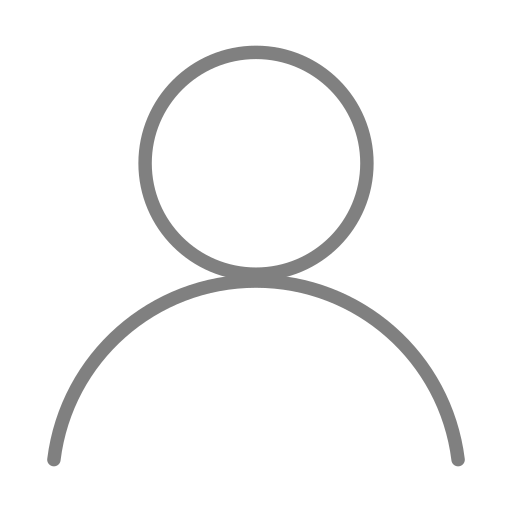
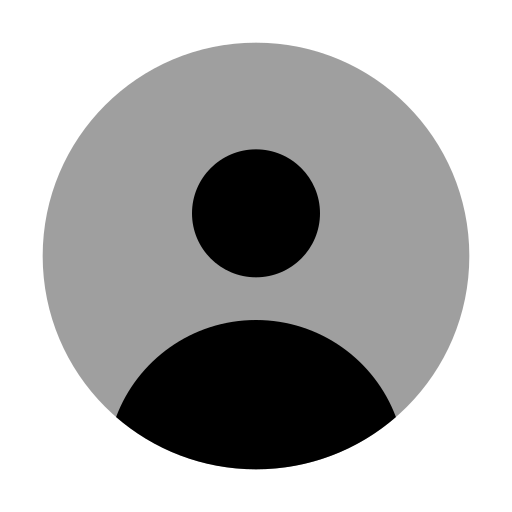
perbaruan tugas.php sama profile

diff --git a/codes V3 - Biyan!!/tugas.css b/codes V3 - Biyan!!/tugas.css
@@ -137,6 +137,48 @@ nav ul {
     background-color: #45a049;
 }
 
+.upload-link {
+    display: inline-block;
+    color: #007bff;
+    text-decoration: none;
+    font-weight: bold;
+    margin-right: 10px;
+    font-size: 14px;
+    padding: 5px 10px;
+    border: 1px solid #007bff;
+    border-radius: 5px;
+    transition: all 0.3s ease;
+}
+
+.upload-link:hover {
+    background-color: #007bff;
+    color: white;
+    text-decoration: none;
+}
+
+.delete-button {
+    background-color: #e74c3c;
+    color: white;
+    border: none;
+    padding: 8px 15px;
+    font-size: 14px;
+    font-weight: bold;
+    border-radius: 5px;
+    cursor: pointer;
+    transition: background-color 0.3s ease, transform 0.2s ease;
+}
+
+.delete-button:hover {
+    background-color: #c0392b;
+    transform: scale(1.05);
+}
+
+.delete-button:active {
+    background-color: #a93226;
+    transform: scale(0.95);
+}
+
+
 .footer {
     background-color: #6BB478;
     color: white;

diff --git a/codes V3 - Biyan!!/tugas.php b/codes V3 - Biyan!!/tugas.php
@@ -1,21 +1,32 @@
 <?php
-session_start();
 
 // Koneksi ke database
 include 'connectdb.php';
+
+// Profil
+include 'profileAdd.php';
+
+// Ambil id_user dari sesi
+$id_user = $_SESSION['id_user'];
+
+// Cari nim mahasiswa berdasarkan id_user
+$queryMahasiswa = "SELECT nim_mhs FROM mahasiswa WHERE id_user = ?";
+$stmt = $conn->prepare($queryMahasiswa);
+$stmt->bind_param("i", $id_user);
+$stmt->execute();
+$resultMahasiswa = $stmt->get_result();
+$nim_mhs = $resultMahasiswa->fetch_assoc()['nim_mhs'];
 
 ?>
 
 <!DOCTYPE html>
 <html lang="en">
-
 <head>
     <meta charset="UTF-8">
     <meta name="viewport" content="width=device-width, initial-scale=1.0">
     <title>SIERA - Tugas</title>
     <link rel="stylesheet" href="tugas.css">
 </head>
-
 <body>
     <div class="page-container">
         <div class="content-wrap">
@@ -31,7 +42,7 @@ include 'connectdb.php';
                         <li><a href="tugas.php">Tugas</a></li>
                     </ul>
                     <div class="profile">
-                        <img src="Assets/Ellipse 30.png" alt="Profile">
+                        <img src="<?php echo $profile_image; ?>" alt="Profile" width="65" height="65" style="border-radius: 50%;"/>
                     </div>
                 </nav>
             </header>
@@ -43,29 +54,46 @@ include 'connectdb.php';
 
                     <!-- Daftar Tugas -->
                     <div id="tugas-content">
-                        <?php
-                        // Query untuk mengambil data dari tabel katalog_tugas
-                        $query = "SELECT * FROM katalog_tugas";
-                        $result = $conn->query($query);
+                    <?php
+                    // Query untuk mengambil data dari katalog_tugas dan penilaian_tugas
+                    $query = "
+                    SELECT kt.id_tugas, kt.nama_tugas, kt.deskripsi, kt.tanggal_deadline, kt.tipe,
+                           pt.file_path
+                    FROM katalog_tugas kt
+                    LEFT JOIN penilaian_tugas pt ON kt.id_tugas = pt.id_tugas AND pt.nim_mhs = ?
+                    ";
+                    $stmt = $conn->prepare($query);
+                    $stmt->bind_param("s", $nim_mhs);
+                    $stmt->execute();
+                    $result = $stmt->get_result();
+                    // Modifikasi bagian yang menampilkan data tugas:
+                    if ($result->num_rows > 0) {
+                        while ($row = $result->fetch_assoc()) {
+                            echo '<div class="card">';
+                            echo '<div class="card-title">' . htmlspecialchars($row['nama_tugas']) . '</div>';
+                            echo '<div class="card-info">';
 
+                            echo '<p>' . htmlspecialchars($row['deskripsi']) . '</p>';
+                            echo '<span><img src="Assets/date.png" alt="Calendar Icon" class="icon" width=25 height=auto> Deadline: ' . htmlspecialchars($row['tanggal_deadline']) . '</span>';
+                            echo '<span><img src="Assets/type.png" alt="Calendar Icon" class="icon" width=25 height=auto> Tipe File: ' . htmlspecialchars($row['tipe']) . '</span>';
+                            echo '</div>';
 
-                        if ($result->num_rows > 0) {
-                            while ($row = $result->fetch_assoc()) {
-                                echo '<div class="card">';
-                                echo '<div class="card-title">' . htmlspecialchars($row['nama_tugas']) . '</div>';
-                                echo '<div class="card-info">';
-
-                                echo '<p>' . htmlspecialchars($row['deskripsi']) . '</p>';
-                                echo '<span><img src="Assets/date.png" alt="Calendar Icon" class="icon" width=25 height=auto> Deadline: ' . htmlspecialchars($row['tanggal_deadline']) . '</span>';
-                                echo '<span><img src="Assets/type.png" alt="Calendar Icon" class="icon" width=25 height=auto> Tipe File: ' . htmlspecialchars($row['tipe']) . '</span>';
-                                echo '</div>';
+                            // Jika file_path tersedia, tampilkan sebagai tautan dan tombol hapus
+                            if (!empty($row['file_path'])) {
+                                echo '<a href="Uploads/' . htmlspecialchars($row['file_path']) . '" class="upload-link" target="_blank">Lihat File</a>';
+                                echo '<form action="delete_tugas.php" method="POST" style="display:inline;">
+                                        <input type="hidden" name="id_tugas" value="' . htmlspecialchars($row['id_tugas']) . '">
+                                        <input type="hidden" name="file_path" value="' . htmlspecialchars($row['file_path']) . '">
+                                        <button type="submit" class="delete-button" onclick="return confirm(\'Apakah Anda yakin ingin menghapus file ini?\')">Hapus File</button>
+                                    </form>';
+                            } else {
+                                // Jika file belum diunggah, tampilkan tombol upload
                                 echo '<button class="upload-button" onclick="openUploadPopup(' . $row['id_tugas'] . ')">Upload File</button>';
-                                echo '</div>';
                             }
-                        } else {
-                            echo '<p>Tidak ada tugas yang tersedia.</p>';
+                            echo '</div>';
                         }
-                        ?>
+                    }
+                    ?>
                     </div>
 
                     <!-- Popup untuk Upload File -->
@@ -104,35 +132,13 @@ include 'connectdb.php';
 
     <script>
         function openUploadPopup(idTugas) {
-            // Menampilkan popup untuk upload
             document.getElementById('upload-popup').style.display = 'block';
             document.getElementById('id_tugas').value = idTugas;
         }
 
         function closeUploadPopup() {
-            // Menutup popup
             document.getElementById('upload-popup').style.display = 'none';
         }
-
-        // Menangani form upload sukses
-        document.getElementById('upload-form').onsubmit = function (e) {
-            e.preventDefault();
-
-            var formData = new FormData(this);
-
-            var xhr = new XMLHttpRequest();
-            xhr.open("POST", "upload.php", true);
-            xhr.onload = function () {
-                if (xhr.status === 200) {
-                    alert(xhr.responseText);
-                    closeUploadPopup(); // Tutup popup
-                } else {
-                    alert("Terjadi kesalahan saat mengunggah file.");
-                }
-            };
-            xhr.send(formData);
-        };
     </script>
 </body>
-
 </html>

diff --git a/codes V3 - Biyan!!/delete_tugas.php b/codes V3 - Biyan!!/delete_tugas.php
@@ -1,0 +1,43 @@
+<?php
+session_start();
+
+// Koneksi ke database
+include 'connectdb.php';
+
+// Periksa apakah data yang diperlukan telah dikirimkan
+if ($_SERVER['REQUEST_METHOD'] === 'POST' && isset($_POST['id_tugas'], $_POST['file_path'])) {
+    $id_tugas = $_POST['id_tugas'];
+    $file_path = $_POST['file_path'];
+
+    // Ambil nim mahasiswa dari sesi
+    $id_user = $_SESSION['id_user'];
+    $queryMahasiswa = "SELECT nim_mhs FROM mahasiswa WHERE id_user = ?";
+    $stmt = $conn->prepare($queryMahasiswa);
+    $stmt->bind_param("i", $id_user);
+    $stmt->execute();
+    $result = $stmt->get_result();
+    $nim_mhs = $result->fetch_assoc()['nim_mhs'];
+
+    // Hapus file dari direktori Uploads/
+    $file_full_path = "Uploads/" . $file_path;
+    if (file_exists($file_full_path)) {
+        unlink($file_full_path);
+    }
+
+    // Hapus record dari tabel penilaian_tugas
+    $queryDelete = "DELETE FROM penilaian_tugas WHERE id_tugas = ? AND nim_mhs = ?";
+    $stmt = $conn->prepare($queryDelete);
+    $stmt->bind_param("is", $id_tugas, $nim_mhs);
+    if ($stmt->execute()) {
+        $_SESSION['message'] = "File berhasil dihapus.";
+    } else {
+        $_SESSION['message'] = "Terjadi kesalahan saat menghapus file.";
+    }
+} else {
+    $_SESSION['message'] = "Permintaan tidak valid.";
+}
+
+// Redirect kembali ke halaman tugas
+header("Location: tugas.php");
+exit();
+?>

diff --git a/codes V3 - Biyan!!/mentor_dashboard.php b/codes V3 - Biyan!!/mentor_dashboard.php
@@ -258,7 +258,7 @@ $conn->close();
                         content += '<thead><tr><th class="py-2 px-4 border">Pengerjaan Tugas</th><th class="py-2 px-4 border">NIM</th><th class="py-2 px-4 border">Nilai</th><th class="py-2 px-4 border">Komentar</th><th class="py-2 px-4 border">Aksi</th></tr></thead><tbody>';
                         data.forEach(item => {
                             content += `<tr>
-                            <td class="py-2 px-4 border"><a href="${item.file_path}" download>Lihat Tugas</a></td>
+                            <td class="py-2 px-4 border"><a href="${item.file_path}" style="color: green;" download>Lihat Tugas</a></td>
                             <td class="py-2 px-4 border">${item.nim_mhs}</td>
                             <td class="py-2 px-4 border">${item.nilai ?? '-'}</td>
                             <td class="py-2 px-4 border">${item.komentar ?? '-'}</td>

diff --git a/codes V3 - Biyan!!/upload.php b/codes V3 - Biyan!!/upload.php
@@ -34,7 +34,7 @@ if ($_SERVER['REQUEST_METHOD'] == 'POST' && isset($_FILES['file'])) {
                 $queryInsert = "INSERT INTO penilaian_tugas (nim_mhs, nim_mentor, id_tugas, file_path) 
                                 VALUES ('$nim_mhs', '$nim_mentor', '$id_tugas', '$targetFile')";
                 if ($conn->query($queryInsert)) {
-                    echo "File berhasil diupload dan disimpan ke database!";
+                    header("Location: tugas.php");
                 } else {
                     echo "Error: " . $conn->error;
                 }

diff --git a/codes V3 - Biyan!!/profileAdd.php b/codes V3 - Biyan!!/profileAdd.php
@@ -32,6 +32,4 @@ if ($id_user && $role) {
         }
     }
 }
-
-$conn->close();
 ?>
